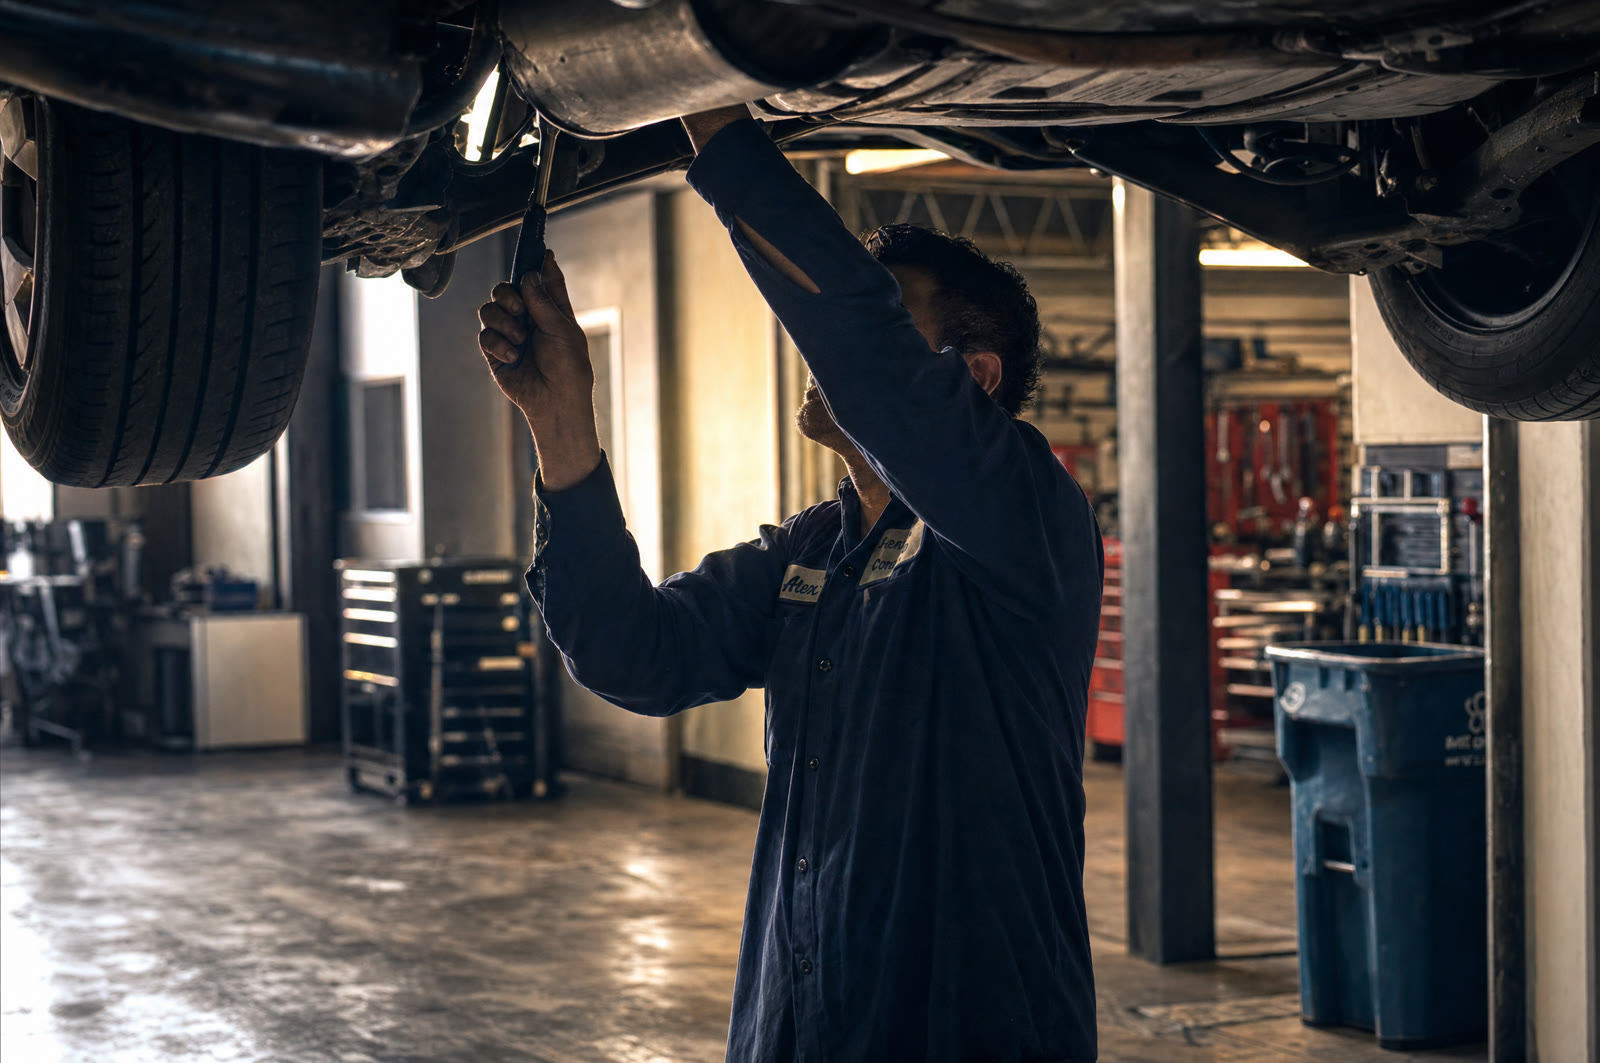
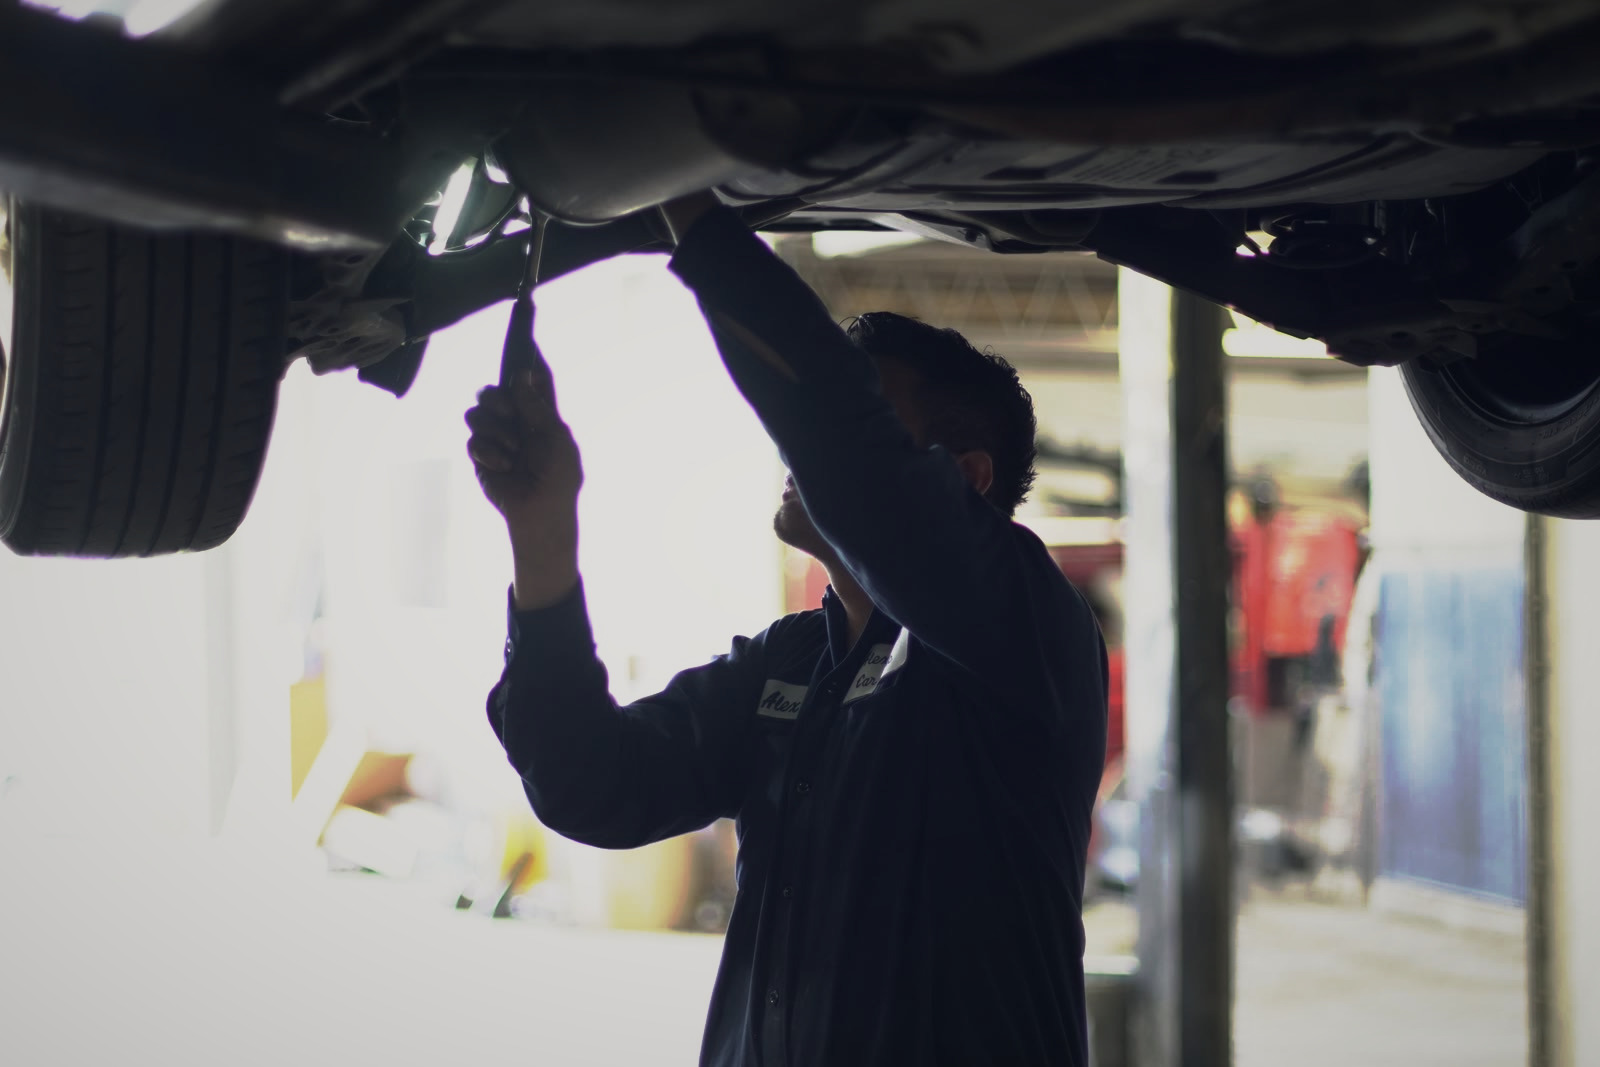
Rebuild photos from originals: paste-back removals plus per-photo grade in code
Claude-Session: https://claude.ai/code/session_01Td5uHebw4EZcWURDu3Tcu7

diff --git a/tools/build_photos.py b/tools/build_photos.py
@@ -1,0 +1,101 @@
+#!/usr/bin/env python3
+"""Build the service/team photos from the untouched originals.
+
+1. Optional paste-back: take ONLY the listed boxes from the AI object-removal output
+   (media/removed/<name>.jpg) and drop them into the original, so every other pixel
+   (blur, text, faces, colour) is exactly what the camera shot.
+2. Optional blur patches (licence plates).
+3. Per-photo colour grade (tools/grade.py).
+
+run:  python3 tools/build_photos.py [name ...]
+"""
+import os, sys
+import numpy as np
+from PIL import Image, ImageFilter
+sys.path.insert(0, os.path.dirname(__file__))
+from grade import grade
+
+ROOT = os.path.dirname(os.path.dirname(os.path.abspath(__file__)))
+
+# boxes are (x0, y0, x1, y1) in 1600x1067 original coordinates
+PHOTOS = {
+    "tires": dict(out="services/tires-alignment",
+        paste=[(845, 20, 1090, 290), (140, 470, 470, 880), (470, 470, 590, 580)],
+        grade=dict(exp=-0.10, contrast=0.30, hi=0.30, sat=0.85, red=0.62, navy=0.5, warm=0.30)),
+    "oil": dict(out="services/oil-change",
+        paste=[(80, 500, 310, 900), (1225, 560, 1600, 1067)],
+        grade=dict(exp=-0.30, contrast=0.30, hi=0.9, sat=0.90, white=0.90, navy=0.5, warm=0.30)),
+    "steering": dict(out="services/steering-suspension",
+        paste=[(150, 540, 575, 1067), (0, 790, 150, 1067)],
+        grade=dict(exp=-0.08, contrast=0.30, sat=0.92, navy=0.5, warm=0.30)),
+    "engine": dict(out="services/engine-diagnostics",
+        paste=[(185, 955, 465, 1067), (640, 995, 745, 1055), (160, 870, 270, 935), (800, 985, 905, 1035)],
+        grade=dict(exp=-0.02, contrast=0.25, hi=0.4, sat=0.92, red=0.80, navy=0.45, warm=0.30)),
+    "brakes": dict(out="services/brakes",
+        grade=dict(exp=-0.05, contrast=0.30, hi=0.5, sat=0.90, navy=0.5, warm=0.30)),
+    "diff": dict(out="services/differentials",
+        grade=dict(exp=-0.30, contrast=0.30, hi=0.9, sat=0.90, white=0.90, navy=0.5, warm=0.30)),
+    "body": dict(out="services/bodywork-paint",
+        grade=dict(exp=-0.05, contrast=0.28, sat=0.88, navy=0.5, warm=0.30)),
+    "about": dict(out="team/team-1",
+        blur=[(186, 548, 306, 642)],   # Virginia licence plate
+        grade=dict(exp=-0.05, contrast=0.28, hi=0.4, sat=0.90, red=0.78, navy=0.45, warm=0.30)),
+}
+
+
+def feather_mask(size, box, f=14):
+    w, h = size
+    m = Image.new("L", size, 0)
+    x0, y0, x1, y1 = box
+    m.paste(255, (x0, y0, x1, y1))
+    return m.filter(ImageFilter.GaussianBlur(f))
+
+
+def ring_mean(arr, box, pad=18):
+    x0, y0, x1, y1 = box
+    h, w = arr.shape[:2]
+    X0, Y0, X1, Y1 = max(0, x0 - pad), max(0, y0 - pad), min(w, x1 + pad), min(h, y1 + pad)
+    outer = arr[Y0:Y1, X0:X1].reshape(-1, 3)
+    mask = np.ones((Y1 - Y0, X1 - X0), bool)
+    mask[y0 - Y0:y1 - Y0, x0 - X0:x1 - X0] = False
+    return arr[Y0:Y1, X0:X1][mask].mean(axis=0)
+
+
+def paste_back(orig, ai, boxes):
+    ai = ai.resize(orig.size, Image.LANCZOS)
+    o = np.asarray(orig, dtype=np.float32)
+    a = np.asarray(ai, dtype=np.float32)
+    out = o.copy()
+    for box in boxes:
+        # tone-match the patch to the original using the surrounding ring
+        shift = ring_mean(o, box) - ring_mean(a, box)
+        patch = np.clip(a + shift, 0, 255)
+        m = np.asarray(feather_mask(orig.size, box), dtype=np.float32)[..., None] / 255.0
+        out = out * (1 - m) + patch * m
+    return Image.fromarray(np.clip(out + 0.5, 0, 255).astype(np.uint8))
+
+
+def blur_boxes(img, boxes, r=22):
+    for (x0, y0, x1, y1) in boxes:
+        crop = img.crop((x0, y0, x1, y1)).filter(ImageFilter.GaussianBlur(r))
+        img.paste(crop, (x0, y0))
+    return img
+
+
+def main(names):
+    for n in names or PHOTOS:
+        cfg = PHOTOS[n]
+        orig = Image.open(f"{ROOT}/media/originals/{n}.jpg").convert("RGB")
+        if cfg.get("paste"):
+            orig = paste_back(orig, Image.open(f"{ROOT}/media/removed/{n}.jpg").convert("RGB"), cfg["paste"])
+        if cfg.get("blur"):
+            orig = blur_boxes(orig, cfg["blur"])
+        out = grade(orig, **cfg["grade"])
+        dst = f"{ROOT}/media/{cfg['out']}.jpg"
+        os.makedirs(os.path.dirname(dst), exist_ok=True)
+        out.save(dst, quality=92, subsampling=0)
+        print("built", dst)
+
+
+if __name__ == "__main__":
+    main(sys.argv[1:])

diff --git a/tools/grade.py b/tools/grade.py
@@ -11,6 +11,7 @@ keys (all optional):
   navy     navy lean in shadows (0..1)        default 0.5
   warm     warm tint in highlights (0..1)     default 0.35
   vig      vignette strength (0..1)           default 0.15
+  white    white point (0.8..1) pulls blown backgrounds down  default 1
 """
 import sys
 import numpy as np
@@ -23,13 +24,14 @@ def smooth_s(x, k):
     return x * (1 - k) + s * k
 
 
-def grade(img, exp=0.0, contrast=0.25, hi=0.0, sat=0.9, red=1.0, navy=0.5, warm=0.35, vig=0.15):
+def grade(img, exp=0.0, contrast=0.25, hi=0.0, sat=0.9, red=1.0, navy=0.5, warm=0.35, vig=0.15, white=1.0):
     a = np.asarray(img.convert("RGB"), dtype=np.float32) / 255.0
     a = np.clip(a * (2.0 ** exp), 0, 1)
     if hi > 0:  # roll off highlights
         t = 0.62
         over = np.clip(a - t, 0, None)
         a = np.where(a > t, t + (1 - t) * (1 - np.exp(-over / (1 - t) * (1 + 2 * hi))) / (1 - np.exp(-(1 + 2 * hi))) , a)
+    a = a * white
     a = smooth_s(a, contrast)
     lum = (0.299 * a[..., 0] + 0.587 * a[..., 1] + 0.114 * a[..., 2])[..., None]
     a = lum + (a - lum) * sat
